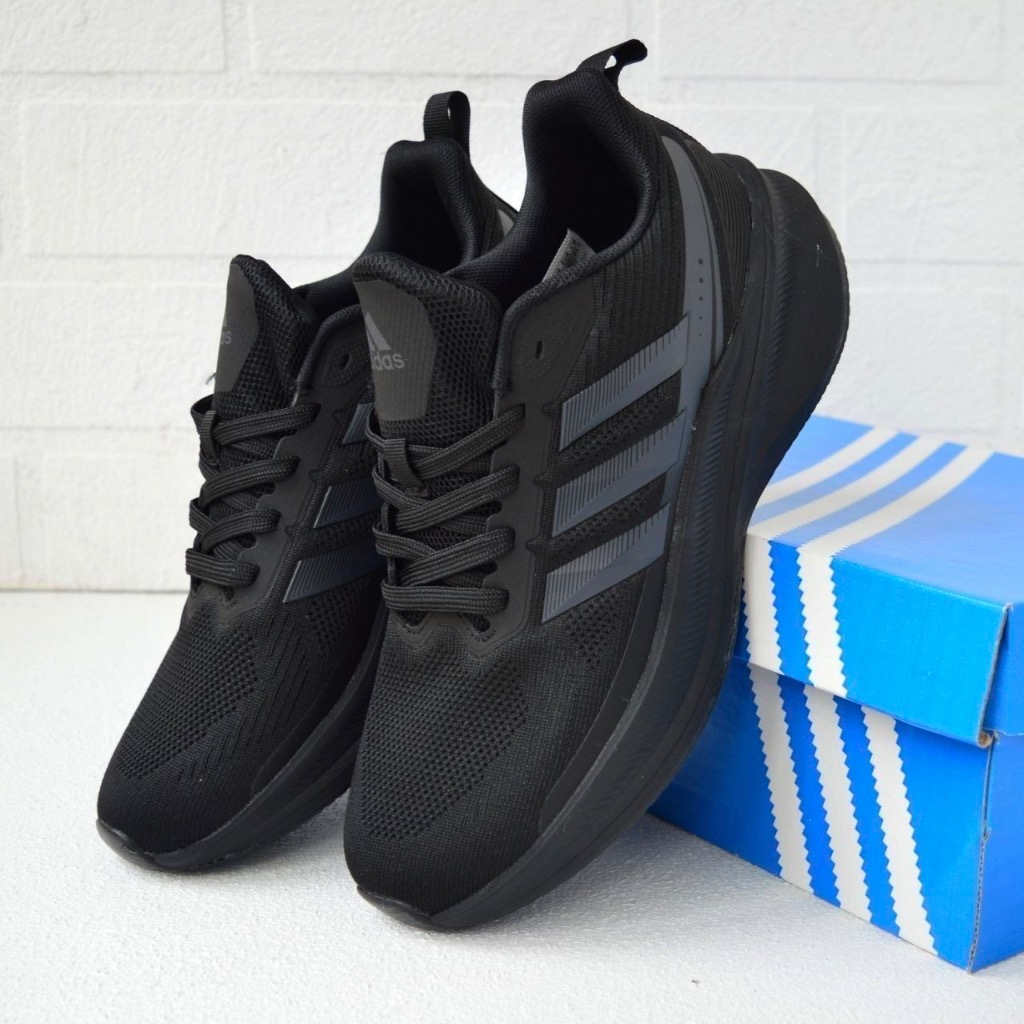
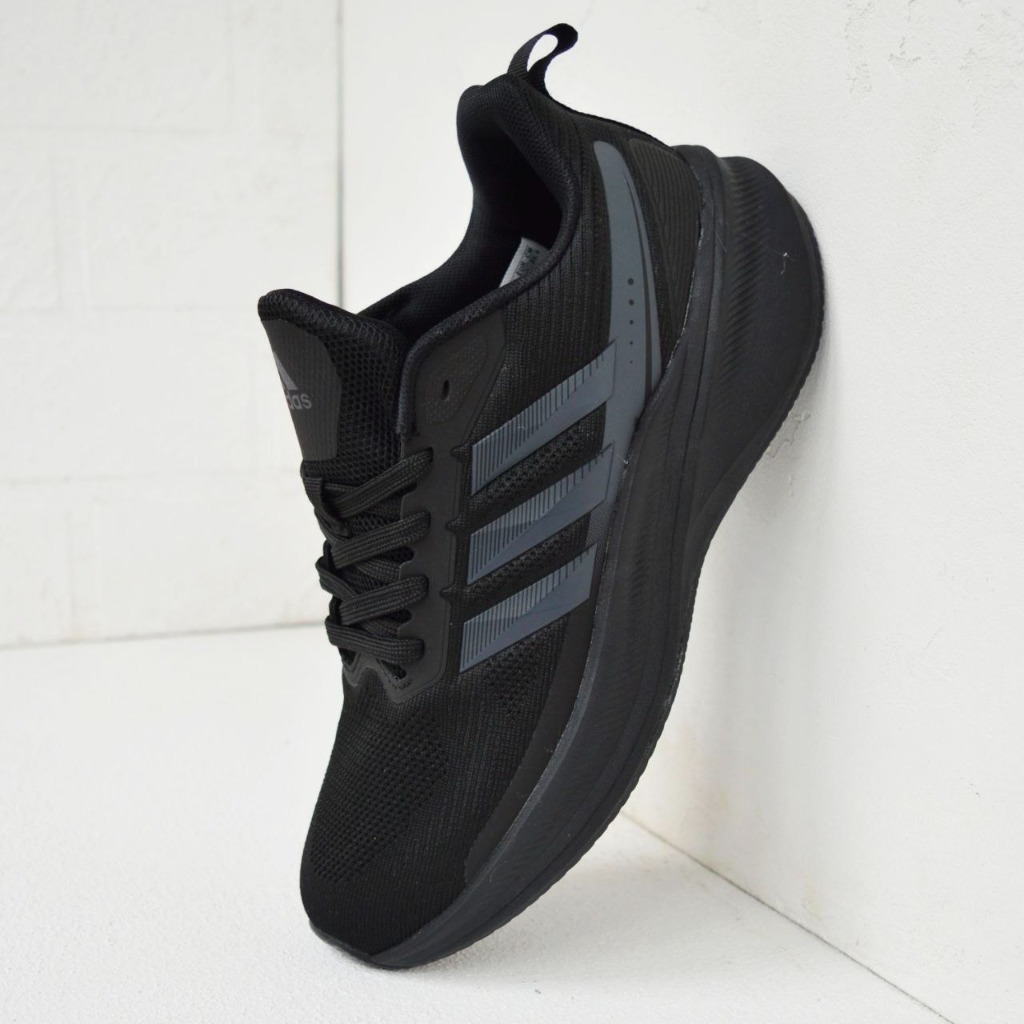
Додано модель Adidas Duramo SL Black (Арт: 3761, 2250 грн)

diff --git a/index.html b/index.html
@@ -5,14 +5,14 @@
     <meta name="viewport" content="width=device-width, initial-scale=1.0, maximum-scale=1.0, user-scalable=no, viewport-fit=cover">
     <meta name="referrer" content="origin-when-cross-origin">
     <meta name="theme-color" content="#ffffff">
-    <title>URBAN — Кросівки Nike: Air Max Plus, Air Max 97, Shox Ride 2, Journey Run | Купити в Україні</title>
-    <meta name="description" content="Кросівки Nike: Air Max Plus TN (Арт: 4441), Air Max 97 (Арт: 3714), Shox Ride 2 (Арт: 3706, 3704), Journey Run Pink (Арт: 4475). Фабрична якість В'єтнам, у фірмових коробках. Доставка 1-2 дні Новою Поштою, оплата при отриманні.">
+    <title>URBAN — Кросівки Nike, Adidas: Duramo SL, Air Max, Shox Ride 2 | Купити в Україні</title>
+    <meta name="description" content="Кросівки Nike та Adidas: Adidas Duramo SL (Арт: 3761), Nike Air Max Plus TN (Арт: 4441), Air Max 97 (Арт: 3714), Shox Ride 2 (Арт: 3706, 3704), Journey Run (Арт: 4475). Фабрична якість В'єтнам, у фірмових коробках. Доставка 1-2 дні Новою Поштою, оплата при отриманні.">
     
     <!-- Open Graph / Meta & Telegram Ad Previews -->
     <meta property="og:type" content="website">
     <meta property="og:url" content="https://urbangrid.com.ua/">
-    <meta property="og:title" content="URBAN — Каталог взуття Nike | Оплата при отриманні">
-    <meta property="og:description" content="Кросівки Nike Air Max Plus TN, Air Max 97, Shox Ride 2, Journey Run (Арт: 4441, 3714, 3706, 3704, 4475). Топ якість В'єтнам, доставка 1-2 дні Новою Поштою. Огляд та примірка перед оплатою!">
+    <meta property="og:title" content="URBAN — Каталог взуття Nike та Adidas | Оплата при отриманні">
+    <meta property="og:description" content="Чоловічі та жіночі кросівки Nike та Adidas (Арт: 3761, 4441, 3714, 3706, 3704, 4475). Топ якість В'єтнам, доставка 1-2 дні Новою Поштою. Огляд та примірка перед оплатою!">
     <meta property="og:image" content="https://urbangrid.com.ua/images/nike_shox_ride2_white_black_1.jpg">
     <meta property="og:locale" content="uk_UA">
     <meta property="og:site_name" content="URBAN">
@@ -128,7 +128,7 @@
                         type="search" 
                         id="catalogSearchInput" 
                         class="catalog-search-input" 
-                        placeholder="Пошук кросівок: назва, бренд, артикул (напр. Air Max, TN, 4441, Shox)..." 
+                        placeholder="Пошук кросівок: назва, бренд, артикул (напр. Adidas, Nike, 3761, Air Max)..." 
                         aria-label="Пошук кросівок"
                         autocomplete="off" 
                         spellcheck="false"
@@ -140,12 +140,13 @@
                 <!-- Quick Search Tags -->
                 <div class="search-quick-tags">
                     <span class="quick-tags-label">Швидкий вибір:</span>
+                    <button type="button" class="quick-tag-chip" onclick="quickSearch('Adidas')">Adidas</button>
                     <button type="button" class="quick-tag-chip" onclick="quickSearch('Nike')">Nike</button>
+                    <button type="button" class="quick-tag-chip" onclick="quickSearch('3761')">3761 (Adidas)</button>
                     <button type="button" class="quick-tag-chip" onclick="quickSearch('Air Max Plus')">Air Max Plus</button>
                     <button type="button" class="quick-tag-chip" onclick="quickSearch('Air Max 97')">Air Max 97</button>
                     <button type="button" class="quick-tag-chip" onclick="quickSearch('Shox')">Shox</button>
                     <button type="button" class="quick-tag-chip" onclick="quickSearch('4441')">4441 (TN)</button>
-                    <button type="button" class="quick-tag-chip" onclick="quickSearch('3714')">3714 (AM 97)</button>
                 </div>
 
                 <!-- Live Results Counter & Reset Action -->
@@ -158,8 +159,9 @@
             <!-- Fast Category Filter Chips (Brands) -->
             <div class="category-filter-wrapper">
                 <div class="category-filter-chips">
-                    <button type="button" class="filter-chip active" data-brand="all" onclick="filterCatalog('all', this)">Всі моделі (5)</button>
+                    <button type="button" class="filter-chip active" data-brand="all" onclick="filterCatalog('all', this)">Всі моделі (6)</button>
                     <button type="button" class="filter-chip" data-brand="nike" onclick="filterCatalog('nike', this)">Nike (5)</button>
+                    <button type="button" class="filter-chip" data-brand="adidas" onclick="filterCatalog('adidas', this)">Adidas (1)</button>
                 </div>
                 <div class="catalog-sort-bar">
                     <label for="catalogSortSelect" class="sort-label">Сортування:</label>
@@ -181,7 +183,7 @@
                 <div id="noSearchResultsBox" class="no-results-box" style="display: none;">
                     <div class="no-results-icon"><svg width="40" height="40" viewBox="0 0 24 24" fill="none" stroke="currentColor" stroke-width="1.5"><circle cx="11" cy="11" r="8"/><line x1="21" y1="21" x2="16.65" y2="16.65"/><line x1="8" y1="11" x2="14" y2="11"/></svg></div>
                     <h3>За вашим запитом пар не знайдено</h3>
-                    <p id="noResultsDetail">Спробуйте інше ключове слово (наприклад: <b>Nike</b>, <b>Air Max</b>, <b>4441</b>, <b>3714</b>, <b>Shox</b>).</p>
+                    <p id="noResultsDetail">Спробуйте інше ключове слово (наприклад: <b>Adidas</b>, <b>Nike</b>, <b>3761</b>, <b>Air Max</b>, <b>Shox</b>).</p>
                     <button type="button" class="btn-reset-search-big" onclick="clearCatalogSearch()">Показати каталог</button>
                 </div>
 
@@ -420,6 +422,56 @@
                         </div>
                         <div class="product-card-footer">
                             <button type="button" class="btn-buy" onclick="selectModelInForm('Nike Air Max Plus Black White (2230 грн)', '2 230 грн', event)">
+                                В кошик
+                            </button>
+                        </div>
+                    </div>
+                </div>
+
+                <!-- Product Card 6: Adidas Duramo SL Black (Art: 3761) (5 Photos) -->
+                <div class="product-card" id="prod-adidas-duramo-sl-black" data-brand="adidas" data-price="2250" data-name="Adidas Duramo SL Black" data-order="5">
+                    <div class="product-img-wrapper">
+                        <span class="badge-new-arrival">✨ Новинка • Наскрізна сітка</span>
+                        <img src="images/adidas_duramo_sl_black_1.jpg" alt="Adidas Duramo SL Black" id="cardImg-adidas-duramo-sl-black">
+                    </div>
+                    <div class="card-thumbnails">
+                        <img src="images/adidas_duramo_sl_black_1.jpg" alt="Adidas Duramo SL Black 1" class="card-thumb-img active" onclick="switchCardImg(this, 'cardImg-adidas-duramo-sl-black', 'images/adidas_duramo_sl_black_1.jpg')">
+                        <img src="images/adidas_duramo_sl_black_2.jpg" alt="Adidas Duramo SL Black 2" class="card-thumb-img" onclick="switchCardImg(this, 'cardImg-adidas-duramo-sl-black', 'images/adidas_duramo_sl_black_2.jpg')">
+                        <img src="images/adidas_duramo_sl_black_3.jpg" alt="Adidas Duramo SL Black 3" class="card-thumb-img" onclick="switchCardImg(this, 'cardImg-adidas-duramo-sl-black', 'images/adidas_duramo_sl_black_3.jpg')">
+                        <img src="images/adidas_duramo_sl_black_4.jpg" alt="Adidas Duramo SL Black 4" class="card-thumb-img" onclick="switchCardImg(this, 'cardImg-adidas-duramo-sl-black', 'images/adidas_duramo_sl_black_4.jpg')">
+                        <img src="images/adidas_duramo_sl_black_5.jpg" alt="Adidas Duramo SL Black 5" class="card-thumb-img" onclick="switchCardImg(this, 'cardImg-adidas-duramo-sl-black', 'images/adidas_duramo_sl_black_5.jpg')">
+                    </div>
+                    <div class="product-details">
+                        <div class="product-meta-header">
+                            <span class="product-cat">ВЗУТТЯ / ADIDAS DURAMO SL | АРТ: 3761</span>
+                            <div class="product-price-top"><span class="price-now">2 250 грн</span></div>
+                        </div>
+                        <h3 class="product-title">Adidas Duramo SL Black (Чоловічі)</h3>
+                        <div class="product-specs">
+                            <div class="spec-row"><span class="spec-label">Колір:</span> <span class="spec-val">Чорні</span></div>
+                            <div class="spec-row"><span class="spec-label">Матеріал:</span> <span class="spec-val">Текстиль (наскрізна повітропроникна сітка)</span></div>
+                            <div class="spec-row"><span class="spec-label">Підошва:</span> <span class="spec-val">Легка амортизаційна пінка</span></div>
+                            <div class="spec-row"><span class="spec-label">Сезон:</span> <span class="spec-val">Весна-літо (дихаючі)</span></div>
+                            <div class="spec-row"><span class="spec-label">Якість:</span> <span class="spec-val">Відмінна якість</span></div>
+                            <div class="spec-row"><span class="spec-label">Виробник:</span> <span class="spec-val">В'єтнам</span></div>
+                            <div class="spec-row"><span class="spec-label">Комплектація:</span> <span class="spec-val">У фірмових коробках Adidas</span></div>
+                        </div>
+                        <div class="size-selector">
+                            <div class="size-selector-header">
+                                <label>Обери розмір (Чоловічі):</label>
+                                <button type="button" class="btn-size-chart-link" onclick="openSizeChartModal()">Таблиця розмірів</button>
+                            </div>
+                            <div class="size-options">
+                                <button type="button" class="size-btn" onclick="selectSize(this, '41 (26 см)')">41</button>
+                                <button type="button" class="size-btn active" onclick="selectSize(this, '42 (26.5 см)')">42</button>
+                                <button type="button" class="size-btn" onclick="selectSize(this, '43 (27.5 см)')">43</button>
+                                <button type="button" class="size-btn" onclick="selectSize(this, '44 (28 см)')">44</button>
+                                <button type="button" class="size-btn" onclick="selectSize(this, '45 (28.5 см)')">45</button>
+                                <button type="button" class="size-btn" onclick="selectSize(this, '46 (29 см)')">46</button>
+                            </div>
+                        </div>
+                        <div class="product-card-footer">
+                            <button type="button" class="btn-buy" onclick="selectModelInForm('Adidas Duramo SL Black (2250 грн)', '2 250 грн', event)">
                                 В кошик
                             </button>
                         </div>
